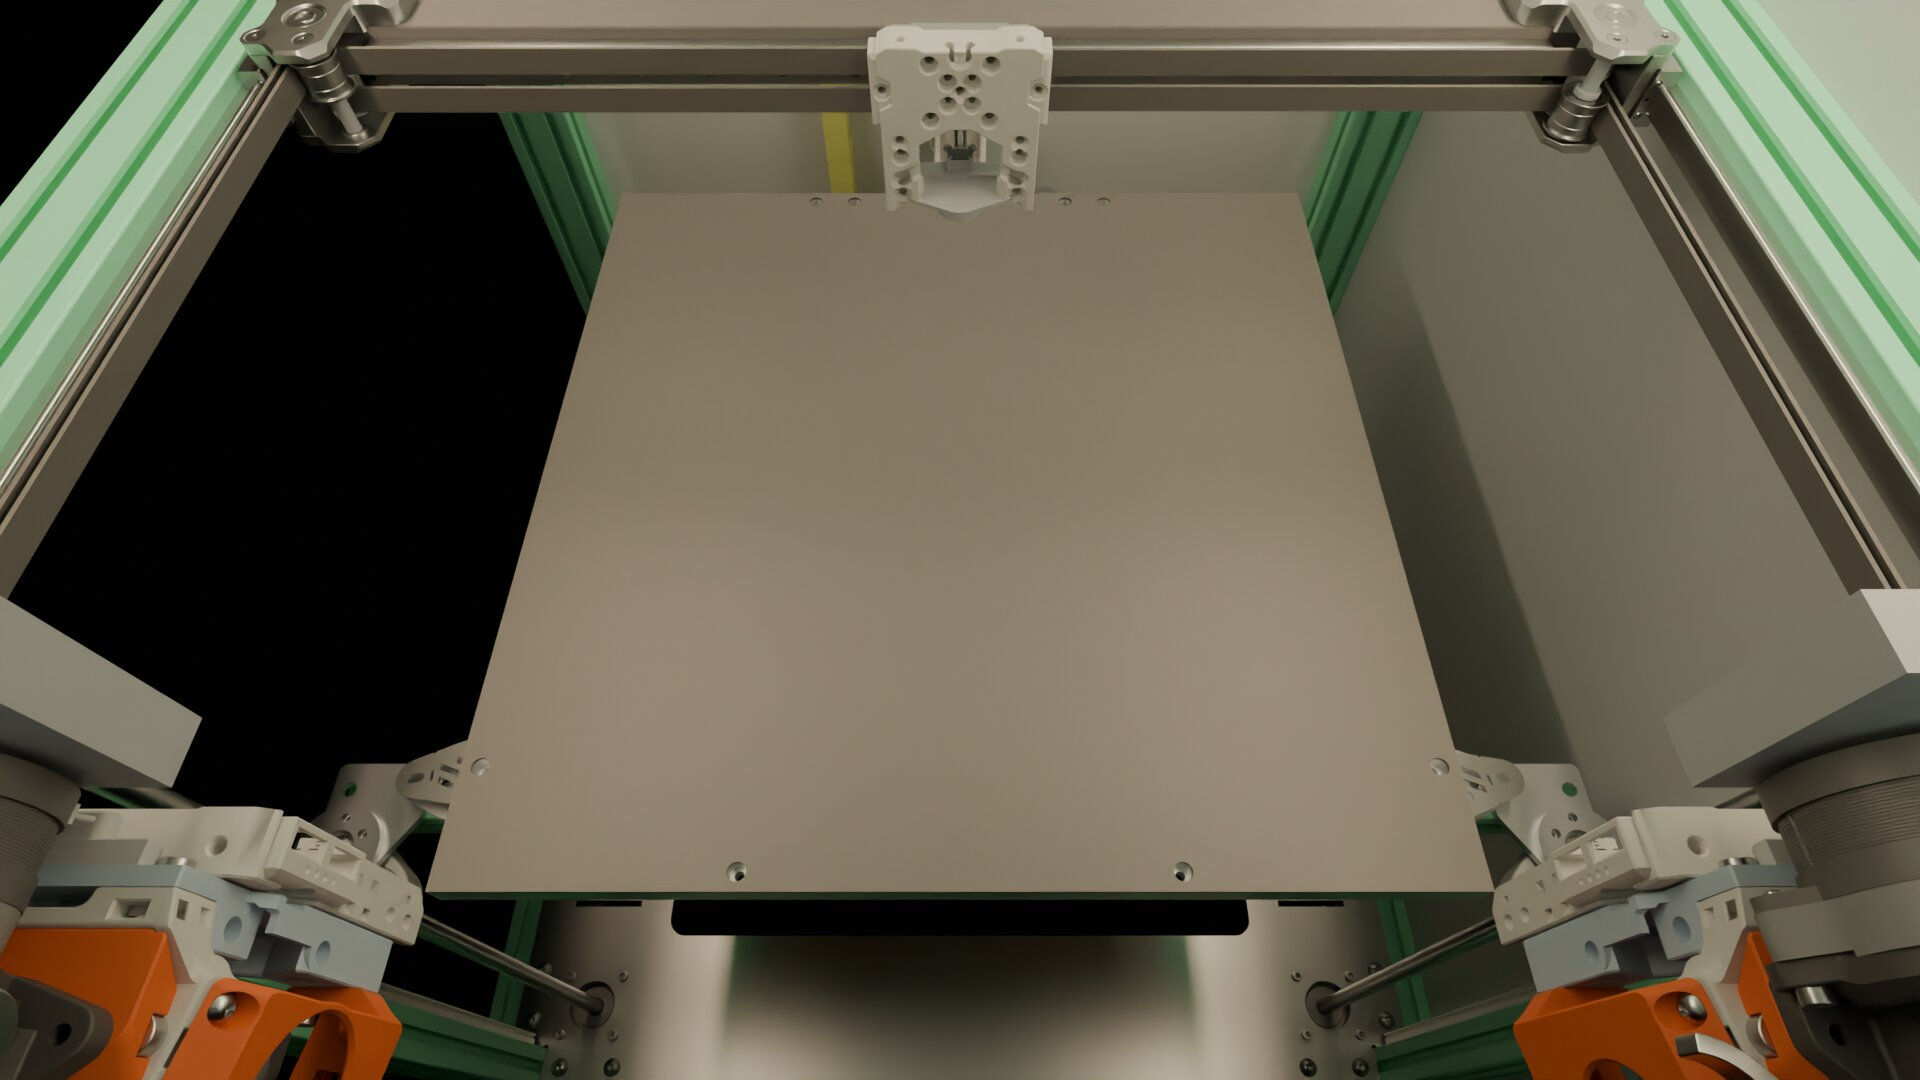
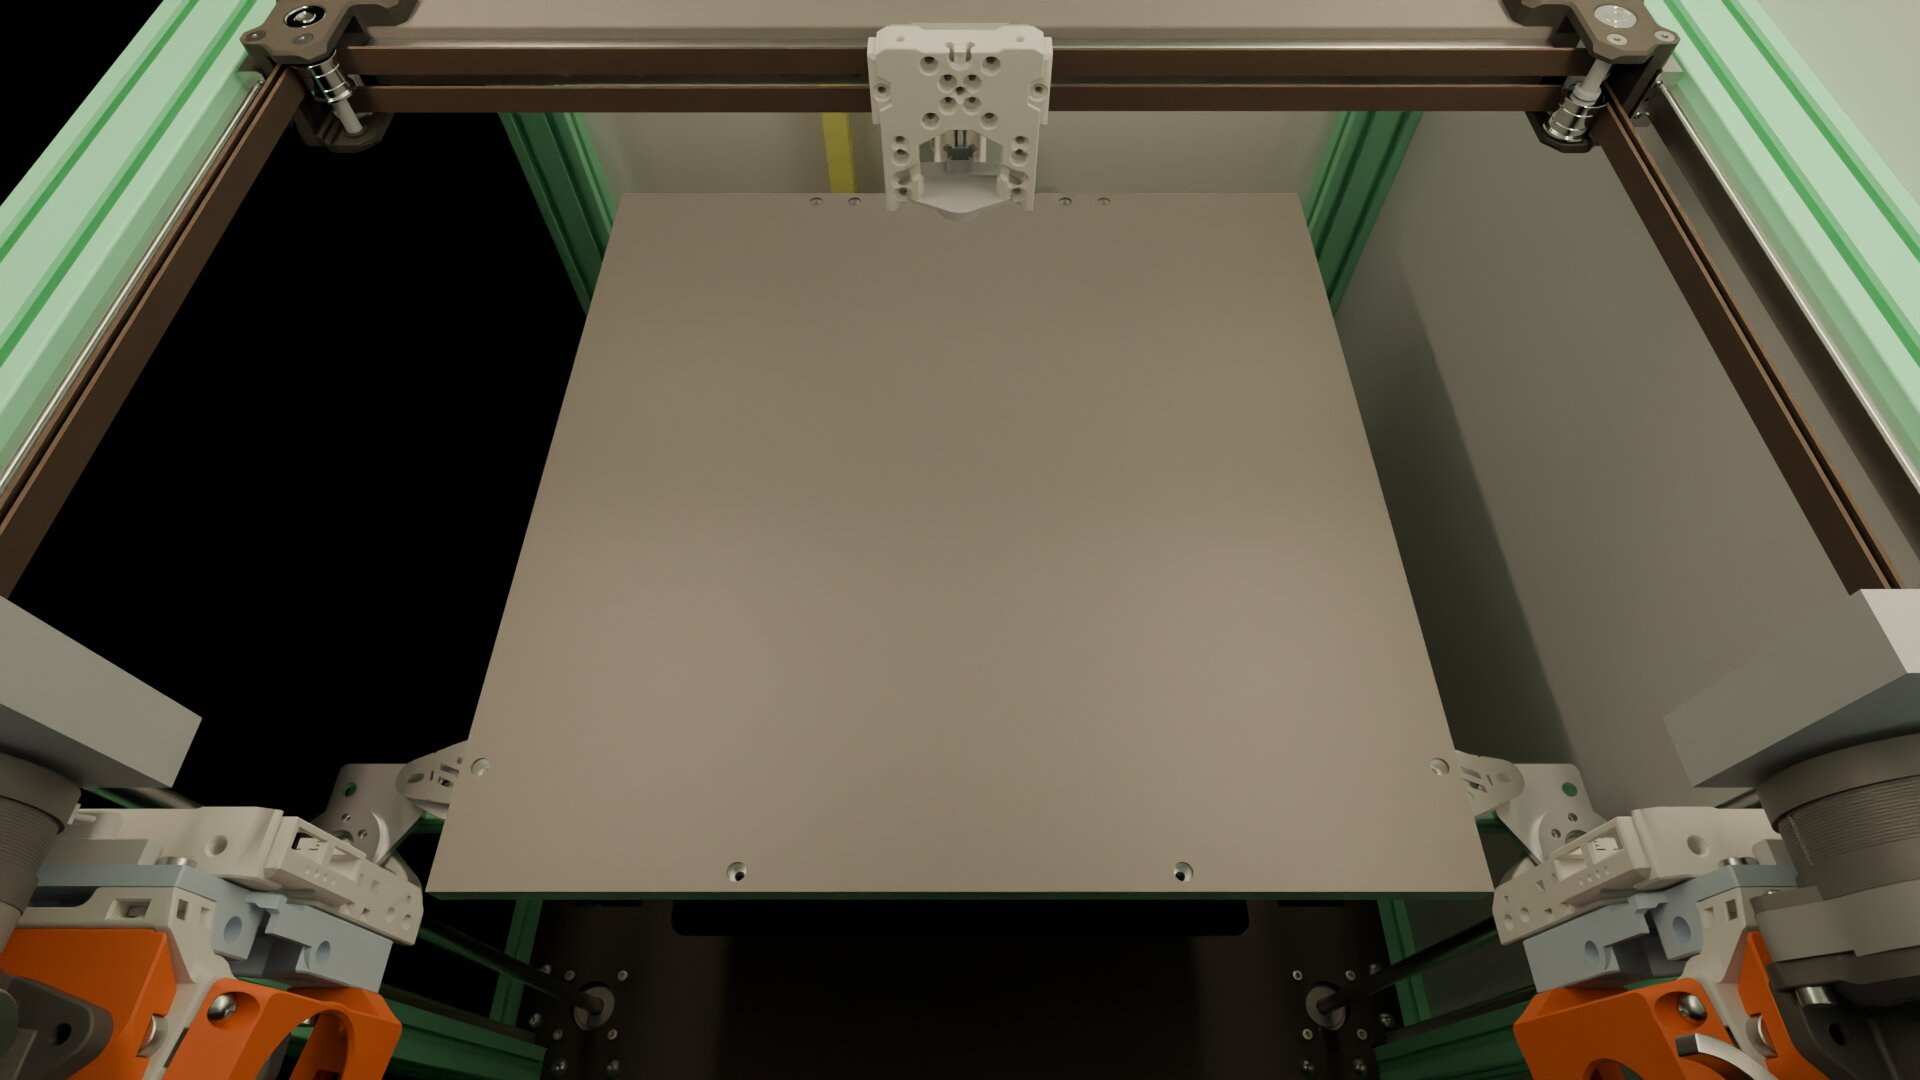
Render colours: backbone, belts, Monolith parts, bearings (#38) (#76)
* Render colours: backbone, belts, Monolith parts, bearings; reuse reads the current map

User, 2026-11-06: the bed backbone and the Monolith milled parts are matte
black, the belts brown almost black, the bearings chrome-ish. New roles
and rules, each tested on real lite-26 labels. render.py now takes role
colours from the current colours.json, so VT350_REUSE_EXPORT picks up a
colour-only edit (a new rule still needs a full export; documented).
Re-rendered lite-26: 26 frame, 40 printed, 6 accent, 1 backbone, 2 belt,
18 Monolith, 68 bearing solids.

* notes/scripts.md: render_full.sh (#38)

---------

diff --git a/cad/render/render.py b/cad/render/render.py
@@ -57,6 +57,9 @@ def kind_of(mat, label0):
     if "ptfe" in m: return "ptfe"
     if "felt" in label0.lower(): return "felt"
     return "plastic"
+# role colours: the CURRENT colours.json (so a colour-only edit re-renders from an old export), else the export's copy
+try: ROLES = dict(scene_j.get("roles", {}), **colours.load()["roles"])
+except Exception as e: print("colours.json not loaded:", e); ROLES = scene_j.get("roles", {})
 for key, b in scene_j["buckets"].items():
     path = os.path.join(SRC, key + ".stl")
     if not os.path.exists(path): continue
@@ -64,7 +67,7 @@ for key, b in scene_j["buckets"].items():
     ob = bpy.context.selected_objects[0]; ob.name = key
     kind = "emitter" if key == "LED_emitter" else "glow" if key == "clash" else kind_of(b["material"], (b["labels"] or [""])[0])
     col = tuple(b["color"]); rough = None
-    role = scene_j.get("roles", {}).get(b.get("role") or "")
+    role = ROLES.get(b.get("role") or "")
     if role:                                         # colour map role (#38): sRGB hex -> linear, its own finish
         col = colours.linear(role["hex"]); kind = role.get("kind", "plastic"); rough = role.get("roughness")
     elif kind in ("aluminium", "steel"): col = tuple(min(1, max(0.55, c)) for c in col)

diff --git a/cad/render/test_colours.py b/cad/render/test_colours.py
@@ -73,6 +73,13 @@ class TheCommittedMap(unittest.TestCase):
         self.assertEqual(co.role_of(m, "Camera housing front (Printables 305428, public domain)",
                                     "Enclosure extras (lite-16)", "Default"), "printed")
         self.assertIsNone(co.role_of(m, "Nocturne lens", "Enclosure extras (lite-16)", "Default"))
+        self.assertEqual(co.role_of(m, "GT2 9mm belt, lower (Monolith 2WD)", "4040-350x350x250 Voron Trident v4 v33", "Default"), "belt")
+        for lab in ("VC9-JLA", "VT9-RRB", "VT9-FIA001"):
+            self.assertEqual(co.role_of(m, lab, "4040-350x350x250 Voron Trident v4 v33 / XY left: _XY_left", "Aluminum-6061-T6"), "monolith")
+        for lab in ("695 W5 bearing005", "F695 flanged bearing022", "_MR148ZZ Outer Ring (1)", "_MR148ZZ Ball013"):
+            self.assertEqual(co.role_of(m, lab, "x", "Steel-Generic"), "bearing", lab)
+        self.assertIsNone(co.role_of(m, "D5x36mm pin001", "x", "Steel-Generic"))
+        self.assertEqual(co.role_of(m, "backbone-350 v2", "4040-350x350x250 Voron Trident v4 v33", "Steel-Generic"), "backbone")
 
 
 if __name__ == "__main__":

diff --git a/notes/scripts.md b/notes/scripts.md
@@ -33,6 +33,7 @@ flowchart TD
 | Changed a file in `parts/printed/` or `manifest.csv` | `python3 parts/check-printed.py` (add `--write-index` to rebuild the README table) | seconds |
 | Checking pinned upstream STLs haven't drifted | `python3 parts/check-printed.py --upstream` (network; CI doesn't run it) | ~1 min |
 | See what refresh *would* do, writing nothing | `python3 cad/scripts/refresh.py N --dry-run` | seconds |
+| Full colour renders of the whole printer, here on the laptop | `cad/render/render_full.sh [N] [samples]` (below) | ~6 min; prints the image paths |
 | A render of a sweep pose (clash in red) | `export_pose.py`, then `gpu-batch-submit.py` (below) | ~5 min, result posted to the issue |
 | A new model change (lite-N) | a GUI pass script: Claude writes it, you click **Wait** | 5–40 min |
 
@@ -96,7 +97,23 @@ VT350_ONLY=MadMaxCarriage $APP freecadcmd $PWD/cad/scripts/derive_stls.py   # on
 Each remixed part is moved into its upstream part's print orientation. Its JOBS table pins which model each remix
 comes from.
 
-### Renders: `cad/render/` + the GPU batch lane (node-03)
+### `cad/render/render_full.sh`: full colour renders on this laptop (#38)
+
+```bash
+cad/render/render_full.sh                 # lite-26 + vt350-ebox.FCStd, 128 samples
+cad/render/render_full.sh 27 256          # another lite-N, more samples
+VT350_REUSE_EXPORT=<run>/export cad/render/render_full.sh   # changed only a role's colour: skip the export
+```
+
+- **What happens:** a FreeCAD window opens and closes by itself (click **Wait** if GNOME asks), then Blender renders on the RTX 2070.
+- **Output:** the last lines are the full image paths, then `render_full: OK`. Each run gets `~/Documents/VT350/renders/<model>-<UTC>/` with `out/` (images), `export/` (meshes, `export.log`) and the raw logs.
+- **Colours** live in `cad/render/colours.json`: role colours plus ordered rules on label, group and material.
+  - Changed only a role's hex? Re-run with `VT350_REUSE_EXPORT`.
+  - Added or changed a rule? Run a full export.
+  - `export.log` lists the parts no rule coloured.
+  - Photo references: #75.
+
+### Sweep-pose renders: `cad/render/` + the GPU batch lane (node-03)
 
 ```bash
 VT350_POSE="Left:front-left, top" VT350_RENDER_OUT=/tmp/pose $APP freecadcmd $PWD/cad/render/export_pose.py

diff --git a/cad/README.md b/cad/README.md
@@ -89,7 +89,7 @@ last 10 runs, one per day for 30 days, and one per month for 12 months
 ## Renders (lite-26, in colour)
 
 Blender Cycles renders of `vt350-lite-26.FCStd` + `vt350-ebox.FCStd`, made with `render/render_full.sh` (below), in the
-chosen colours (#38): seafoam green powder-coated frame, PET-GF white printed parts, PET-GF orange accents. They are
+chosen colours (#38): seafoam green powder-coated frame, PET-GF white printed parts, PET-GF orange accents, matte black backbone and Monolith parts, brown belts, chrome bearings. Photo references for the rest: #75. They are
 re-rendered when worth it, not on every pass. The lite-16 renders (model colours) are in git history.
 
 | What the Obico camera sees (LED strips only, 3800 K) | Outside, front 3/4 |
@@ -101,7 +101,7 @@ re-rendered when worth it, not on every pass. The lite-16 renders (model colours
 ```bash
 cad/render/render_full.sh                 # lite-26 + vt350-ebox.FCStd, 128 samples
 cad/render/render_full.sh 27 256          # another lite-N, more samples
-VT350_REUSE_EXPORT=<run>/export cad/render/render_full.sh   # after changing colours.json only: skip the export
+VT350_REUSE_EXPORT=<run>/export cad/render/render_full.sh   # changed only a role's colour/finish: skip the export (a new RULE needs a full run)
 ```
 
 - **What it does:** runs the FreeCAD GUI export (the window opens and closes by itself; click **Wait** if GNOME asks), then Blender Cycles on the RTX 2070 (OPTIX).
@@ -113,6 +113,10 @@ VT350_REUSE_EXPORT=<run>/export cad/render/render_full.sh   # after changing col
   | frame extrusions | seafoam green powder coat |
   | printed parts (ShapeMaterial ABS) | PET-GF white |
   | Voron `[a]_` accents | PET-GF orange |
+  | bed backbone | matte black |
+  | GT2 belts | brown, almost black |
+  | LDO Monolith milled parts (`VC9-*`, `VT9-*`) | matte black |
+  | ball bearings (695, F695, MR148ZZ) | chrome |
 
   Parts no rule matches keep the model's colour. `export.log` lists every `Default`-material part left uncoloured. Add a rule for any that are printed.
 - **Tests:** `render/colours.py` holds the shared rule matcher, tested by `render/test_colours.py` (CI `render-colours`).
